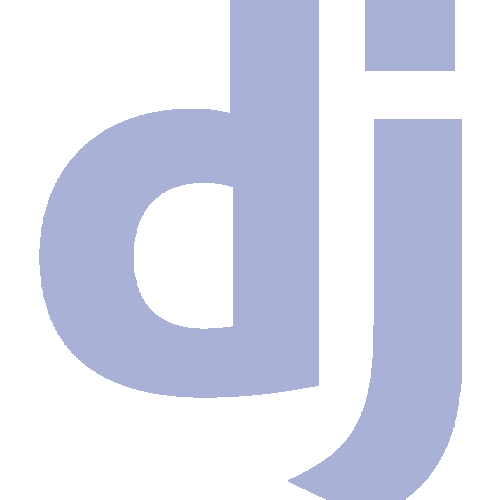
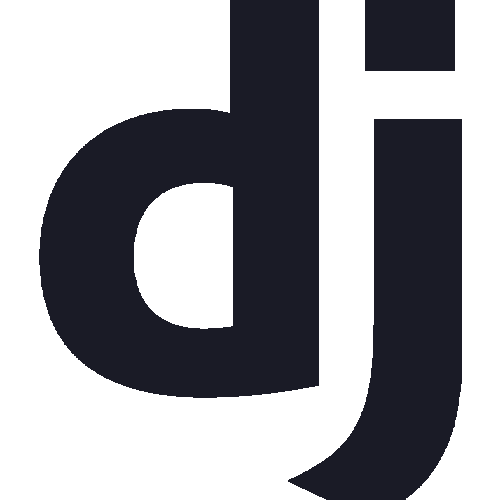
Update 02.04

diff --git a/index.html b/index.html
@@ -44,13 +44,25 @@
                 <button class="current-btn" onclick="cs()">Current</button>
                 <script>
                     function cs(){
-                        window.location.href = '#current-section';
+                        window.location.href = '#certificates-section';
                     }
                 </script>
                 <button class="contact-btn">Contact</button>
             </div>
         </div>
     </section>
+
+        <section id="certificates-section">
+            <div class="ccc-dv">
+                <h2 class="section-title" id="cert-id"><i class="fa-solid fa-school"></i> Certificates</h2>
+                <div class="ejpt">
+                    <img src="img/ejpt.png" id="jept-img" alt="">
+                    <h3><a href="https://checkout.ine.com/?products=ejptv2_funda_monthly" target="_blank">Junior Penetration Tester (eJPT)</a></h3>
+                    <p>Status: In Progress</p>
+                    <a href=""></a>
+                </div>
+            </div>
+        </section>
 
     <section id="projects-section">
         <h2><i class="fa-brands fa-github"></i> Personal Proyects</h2>
@@ -59,11 +71,11 @@
 
               <div class="project">
                 <div class="project-image">
-                    <img src="https://via.placeholder.com/300x200" alt="Project 1 Banner">
+                    <img src="img/vkm.jpeg" alt="Project 1 Banner">
                 </div>
                 <div class="project-details">
-                    <h3>VKM</h3>
-                    <p>VKM is a local (web) password manager. Programmed in Django, it has encryption, sessions and different functions to host our passwords on our computer in a comfortable and simple way.</p>
+                    <h3>VKM - Under Development</h3>
+                    <p>Not Avilable | VKM is a local (web) password manager. Programmed in Django, it has encryption, sessions and different functions to host our passwords on our computer in a comfortable and simple way.</p>
                     <div class="project-buttons">
                         <a href="https://github.com/14wual/vkm" target="_blank" class="btn-primary">Code</a>
                         <a href="#" class="btn-secondary">Download</a>
@@ -73,11 +85,11 @@
               
               <div class="project-type2">
                 <div class="project-image">
-                    <img src="https://via.placeholder.com/300x200" alt="Project 1 Banner">
+                    <img src="img/pwned.jpeg" alt="Project 1 Banner">
                 </div>
                 <div class="project-details">
                     <h3>Pwned</h3>
-                    <p>Pentesting Laboratories Worked</p>
+                    <p>Only Read | Pentesting Laboratories Worked</p>
                     <div class="project-buttons">
                         <a href="https://github.com/14wual/pwned" target="_blank" class="btn-primary">Know More</a>
                     </div>
@@ -86,11 +98,11 @@
               
               <div class="project">
                 <div class="project-image">
-                    <img src="https://via.placeholder.com/300x200" alt="Project 1 Banner">
+                    <img src="img/dotfiles.jpeg" alt="Project 1 Banner">
                 </div>
                 <div class="project-details">
-                    <h3>Dotfiles</h3>
-                    <p>Dotfiles/My personal BSPWM environment for Hacking and scripting. It consists of a BSPWM environment, with a status bar, a hotkeys, a kitty terminal, and a ZSH interpreter. For Kali Linux and ParrotOS</p>
+                    <h3>Dotfiles - Pending Review</h3>
+                    <p>Developing V.23.ab | Dotfiles/My personal BSPWM environment for Hacking and scripting. It consists of a BSPWM environment, with a status bar, a hotkeys, a kitty terminal, and a ZSH interpreter. For Kali Linux and ParrotOS</p>
                     <div class="project-buttons">
                         <a href="https://github.com/14wual/dotfiles" target="_blank" class="btn-primary">Code</a>
                         <a href="#" class="btn-secondary">Install</a>
@@ -103,12 +115,16 @@
 
     </section>     
 
-    <a href="https://github.com/14wual/">See More</a>
+    <div class="ccc">
+        <a href="https://github.com/14wual/" class="see_more">See More</a>
+    </div>
+    
+    <hr>
 
     <section id="technologies-section">
         <section class="technologies">
             <div class="container">
-              <h2 class="section-title"><i class="fa-solid fa-code"></i> Skills</h2>
+              <h2 class="section-title" id="skills-id"><i class="fa-solid fa-code"></i> Skills</h2>
               <div class="logos">
                 <div class="logo">
                     <img src="img/django.png" alt="">

diff --git a/style/index.css b/style/index.css
@@ -78,7 +78,7 @@ body {
     display: flex;
     flex-direction: column;
     width: 100%;
-    max-width: 800px;
+    max-width: 850px;
     margin-top: 2rem;
   }
   
@@ -86,10 +86,6 @@ body {
     display: flex;
     flex-direction: row;
     margin-bottom: 2rem;
-  }
-  
-  .project-image {
-    width: 300px;
   }
   
   .project-details {
@@ -143,6 +139,31 @@ body {
     text-align: right;
   }
 
+  .project-image img{
+    width: 350px;
+    height: 200px;
+    border-radius: 10px;
+  }
+#certificates-section {
+  text-align: center;
+}
+h3 a {
+  text-decoration: none;
+  color: #1a1b26;
+  cursor: pointer;
+}
+h3 a:hover{
+  text-decoration: underline;
+  cursor: pointer;
+}
+.ccc-dv {
+  position: relative;
+  align-content: center;
+  padding: 10px;
+  background: #a9b1d6;
+  color: #1a1b26;
+  text-align: center;
+}
 #video-container video {
     position: absolute;
     top: 0;
@@ -157,12 +178,30 @@ body {
   .project-buttons a i {
     text-decoration: none;
   }
+  .ejpt img {
+    width: 100px;
+  }
+
+  .ejpt{
+    padding: 10px;
+    text-align: center;
+    border-radius: 5px;
+    color: #1a1b26;
+  }
 
   html {
     scroll-behavior: smooth;
   }
-
+  .ejpt img {
+    margin-top: 10px;
+  }
+  .ejpt p{
+    margin-top: 0px;
+  }
+  .ejpt h3 {margin-bottom: 0px;}
   .navbar {
+    width: 90%;
+    background: #1a1b26;
     margin: 2em;
     z-index: 111;
   }
@@ -190,8 +229,8 @@ body {
   }
 
   .technologies {
-    background-color: #1a1b26;
-    color: #a9b1d6;
+    background-color: #a9b1d6;
+    color: #1a1b26;
     padding: 80px 0;
   }
   
@@ -216,7 +255,7 @@ body {
   
   .logo i {
     font-size: 50px;
-    color: #a9b1d6;
+    color: #1a1b26;
     margin-bottom: 20px;
   }
 
@@ -234,17 +273,39 @@ body {
   }
   .btn {
     margin: 0.5em;
+    color: #1a1b26;
+    border: 2px solid #1a1b26;
+    border-radius: 20px;
+    padding: 8px 16px;
+    background-color: transparent;
+    transition: background-color 0.3s ease-in-out;
+  }
+  .ccc {
+    text-align: center;
+    margin-bottom: 30px;
+  }
+  .see_more {
+    margin: 0.5em;
     color: #a9b1d6;
     border: 2px solid #a9b1d6;
     border-radius: 20px;
     padding: 8px 16px;
     background-color: transparent;
     transition: background-color 0.3s ease-in-out;
+    text-decoration: none;
   }
-  
-  .btn:hover {
+  hr {
+    margin-bottom: 0;
+    border: 0px; height: 0px; box-shadow: 10px 1px 5px 1px #a9b1d6;}
+  .see_more:hover {
     background-color: #a9b1d6;
     color: #1a1b26;
+    cursor: pointer;
+    text-decoration: underline;
+  }
+  .btn:hover {
+    background-color: #1a1b26;
+    color: #a9b1d6;
     cursor: pointer;
   }
   .button-group {
@@ -283,4 +344,12 @@ body {
   .social-icons i:hover {
     color: #007bff;
     transition: all 0.3s ease;
+  }
+  @media screen and (max-width: 571px){
+    .navbar-ri {
+      visibility: hidden;
+    }
+  }
+  #skills-id {
+    margin-top: -30px;
   }
